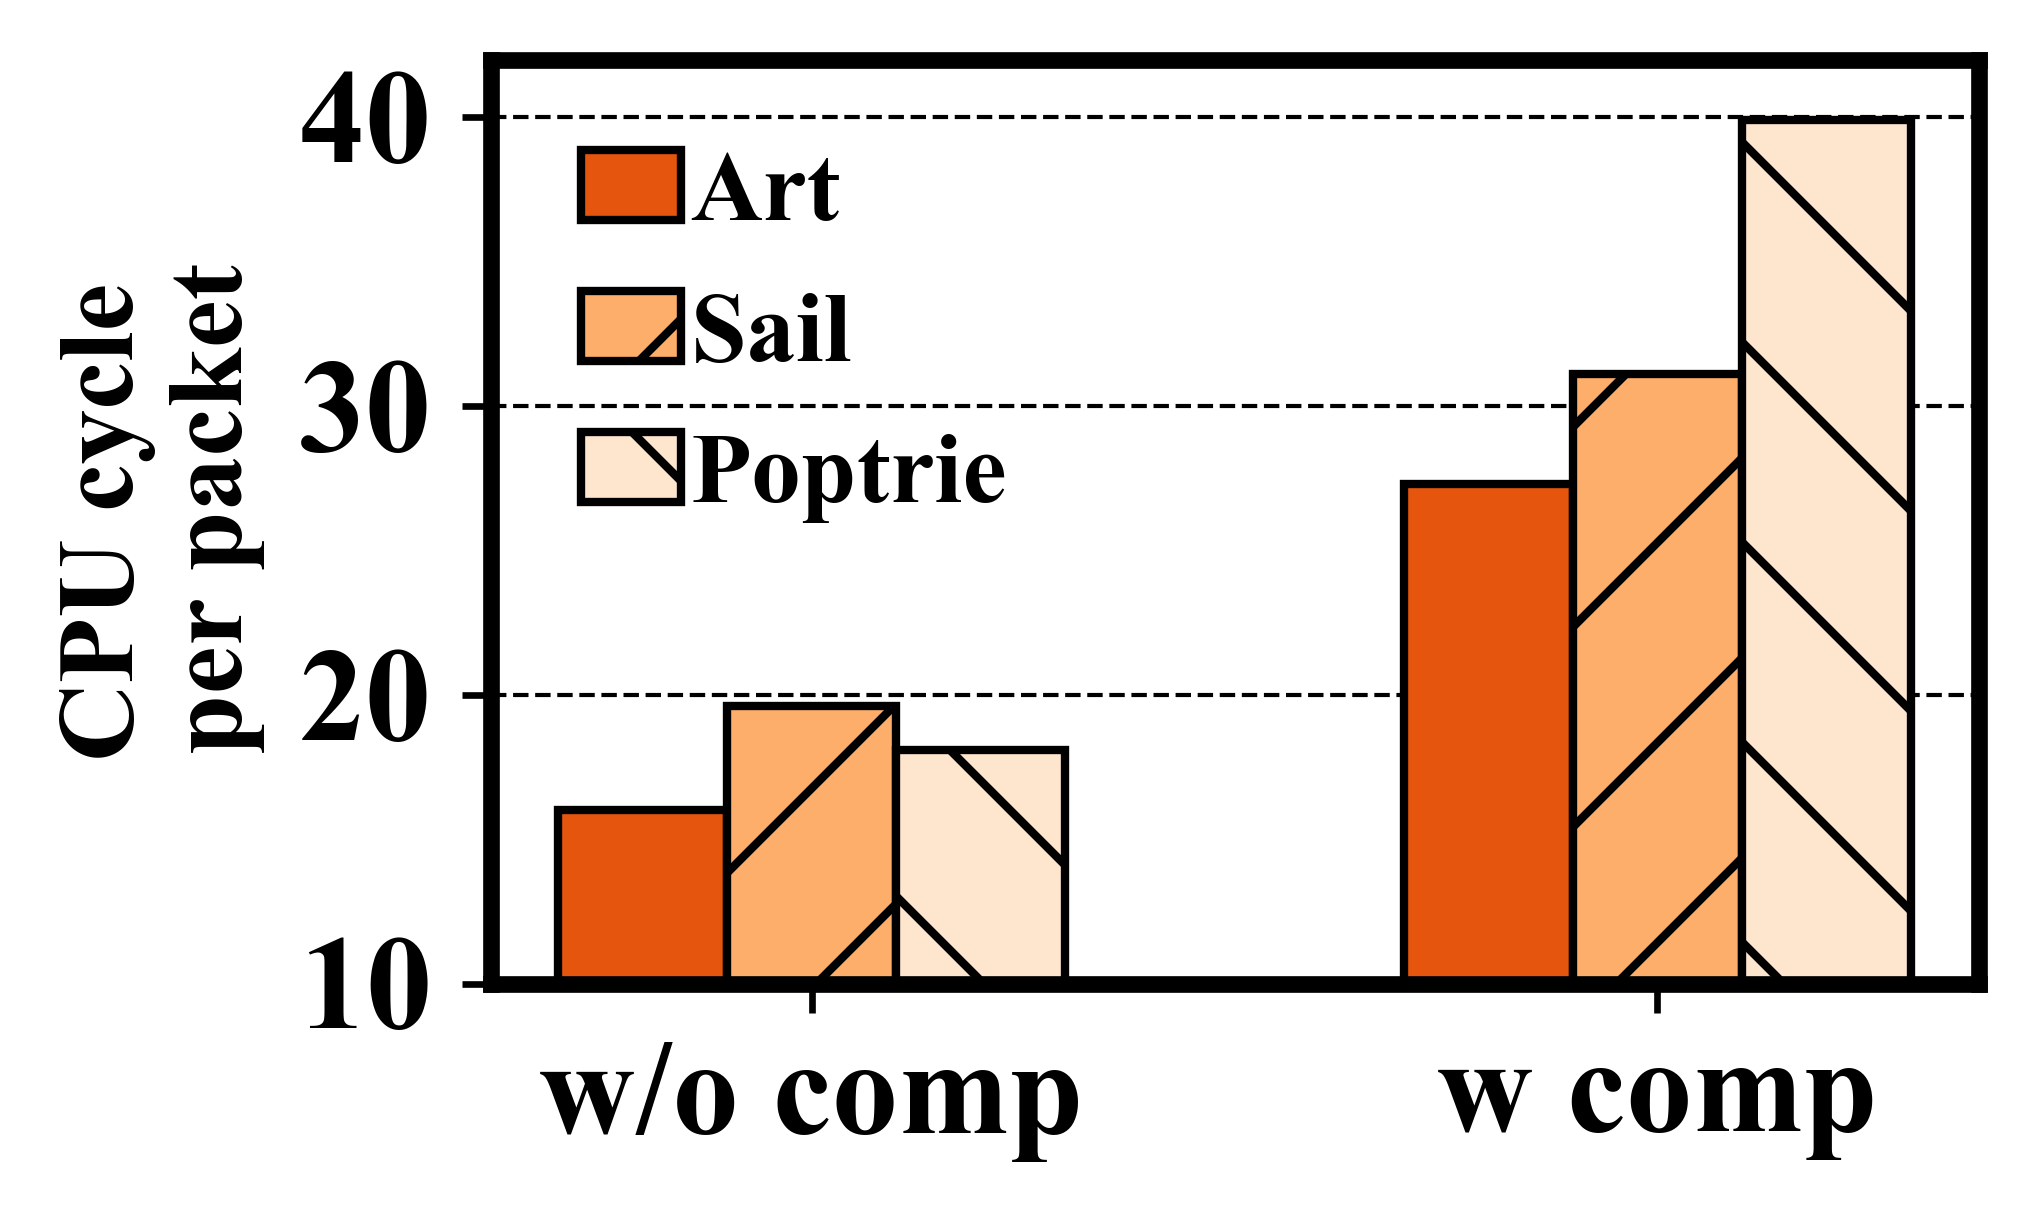
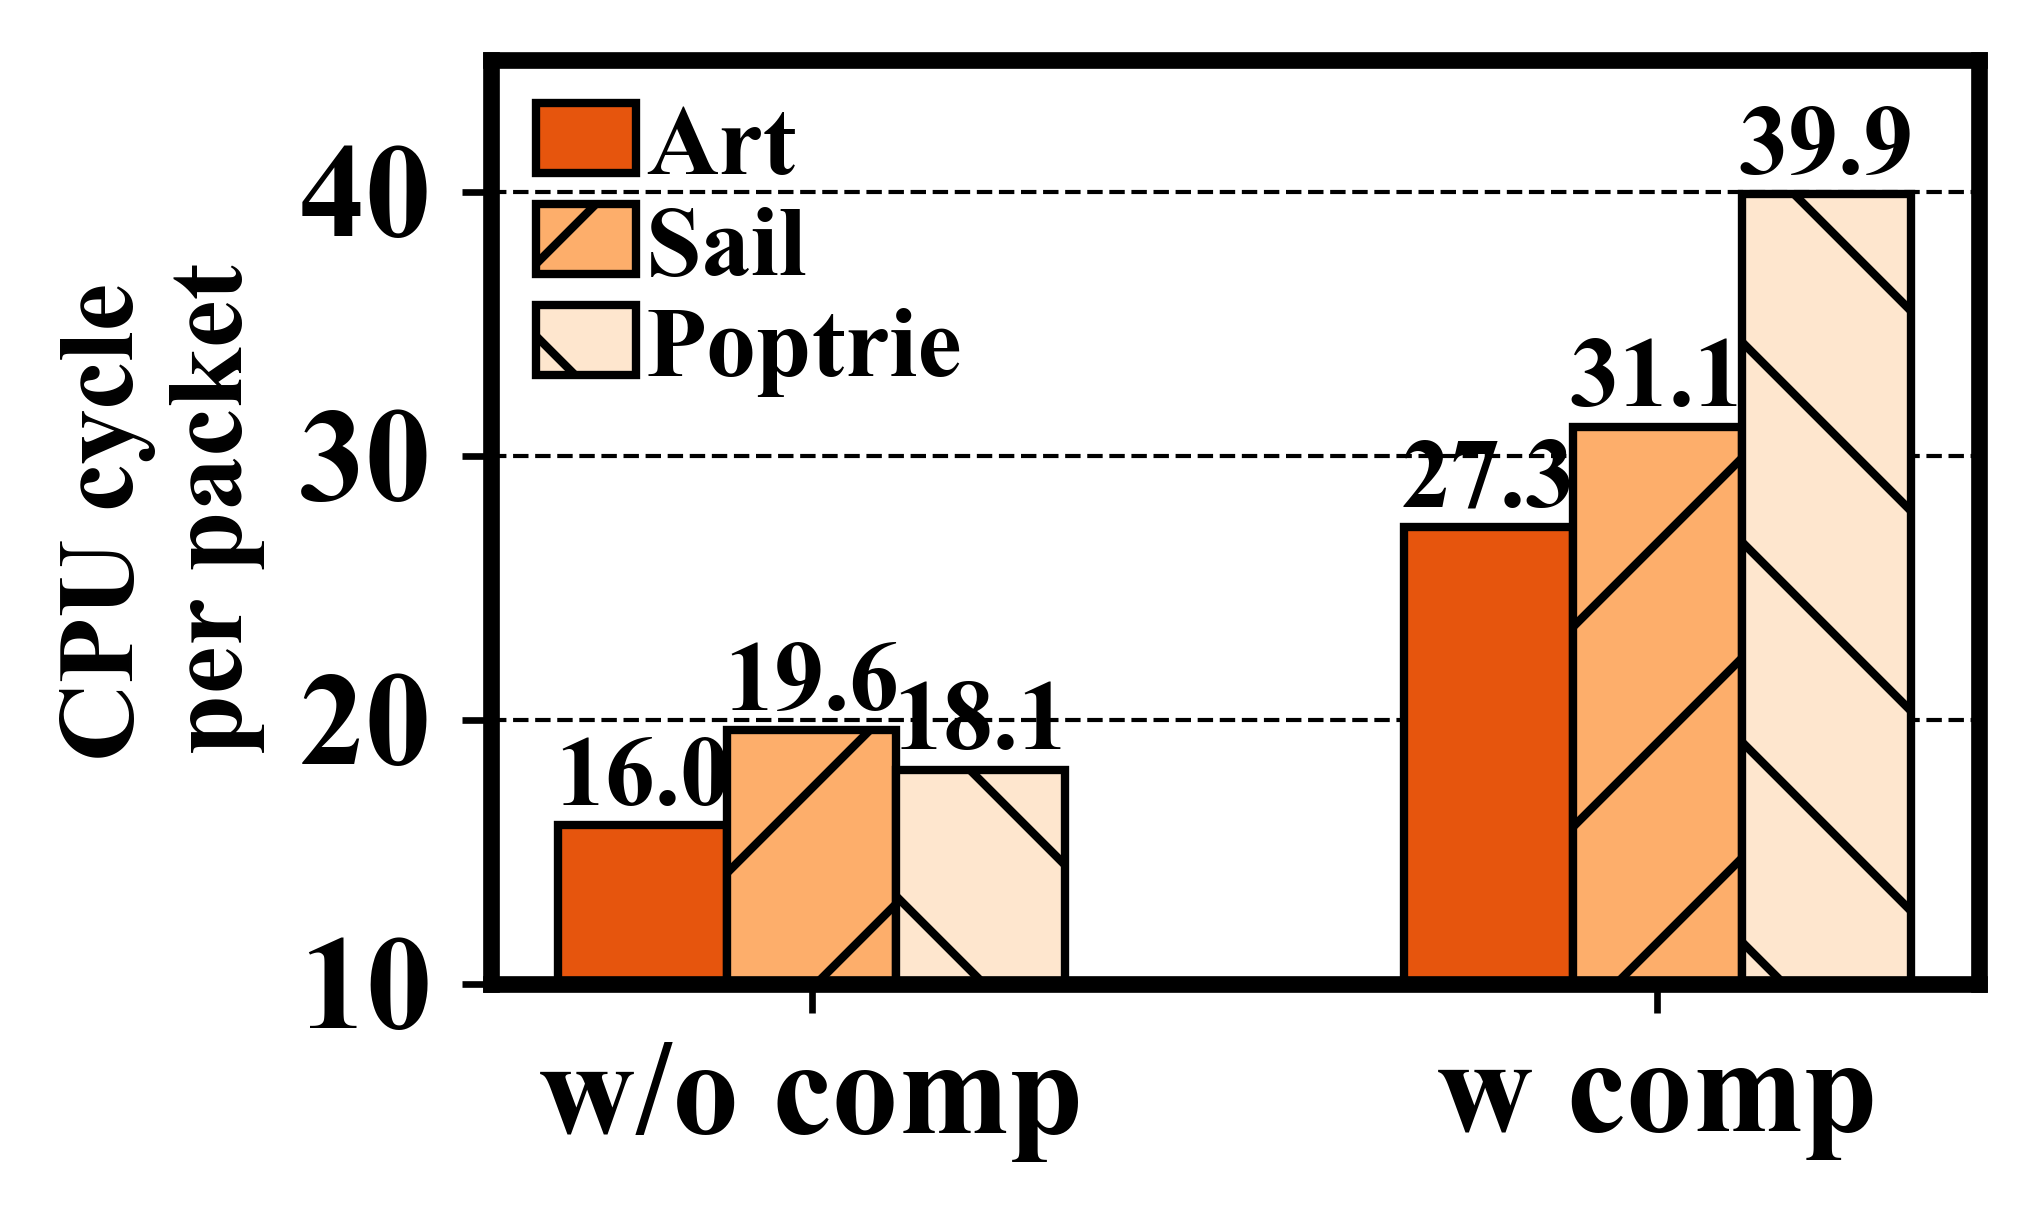
更新plot模块

diff --git a/plot.py b/plot.py
@@ -183,20 +183,39 @@ class Plot:
             label.set_fontname('Times New Roman')
 
     @staticmethod
-    def plot_set_XtickLabelVisible(visible:bool):
+    def plot_set_XtickLabelVisible(visible: bool):
+        """
+        X轴的刻度label是否可见。
+        :param visible: True，可见；False，不可见。
+        :return:
+        """
         labels = Plot.ax.get_xticklabels()
         for label in labels:
             label.set_visible(visible)
 
     @staticmethod
-    def plot_set_YtickLabelVisible(visible:bool):
+    def plot_set_YtickLabelVisible(visible: bool):
+        """
+        Y轴的刻度label是否可见。
+        :param visible: True，可见；False，不可见。
+        :return:
+        """
         labels = Plot.ax.get_yticklabels()
         for label in labels:
             label.set_visible(visible)
 
+    @staticmethod
+    def plot_show_barAboveText(rects, font_size=12):
+        for rect in rects:
+            height = rect.get_height()
+            annotate = Plot.ax.annotate(str(height), xy=((rect.get_x() + rect.get_width() / 2), height),
+                             ha='center', va='bottom')
+            annotate.set_fontsize(font_size)
+            annotate.set_fontfamily('Times New Roman')
+
 class Save:
     @staticmethod
-    def save_to_pdf(filename, dpi=600):
+    def save_to_pdf(filename, dpi=500):
         """
         保存为pdf。
         :param filename: 文件名。不需要带格式后缀，直接输入文件名即可。
@@ -206,7 +225,7 @@ class Save:
         plt.savefig(pdf_base_dir + filename + '.pdf', dpi=dpi, bbox_inches='tight')  # 保存为pdf文件
 
     @staticmethod
-    def save_to_picture(filename, dpi=600):
+    def save_to_picture(filename, dpi=500):
         """
         保存为png格式。
         :param filename: 文件名，不需要输入格式后缀。

diff --git a/example4.py b/example4.py
@@ -30,11 +30,14 @@ bar1 = Plot.plot_bar([1, 2], art_data, color='#e6550d')
 bar2 = Plot.plot_bar([1 + bar_width, 2 + bar_width], sail_data, color='#fdae6b', hatch='/')
 bar3 = Plot.plot_bar([1 + bar_width * 2, 2 + bar_width * 2], poptrie_data, color='#fee6ce', hatch='\\')
 Plot.plot_xticks([1 + bar_width, 2 + bar_width], ['w/o comp', 'w comp'])
-Plot.plot_ylim(10, 42)
-Plot.plot_yticks(np.arange(10, 42, 10))
+Plot.plot_show_barAboveText(bar1)
+Plot.plot_show_barAboveText(bar2)
+Plot.plot_show_barAboveText(bar3)
+Plot.plot_ylim(10, 45)
+Plot.plot_yticks(np.arange(10, 45, 10))
 Plot.plot_grid()
 Plot.plot_ylabel('CPU cycle\n per packet')
-Plot.plot_legend([bar1, bar2, bar3], ['Art', 'Sail', 'Poptrie'], loc='upper left', bbox_to_anchor=(0, 1), ncol=1)
+Plot.plot_legend([bar1, bar2, bar3], ['Art', 'Sail', 'Poptrie'], loc='upper left', bbox_to_anchor=(-0.03, 1.05), ncol=1,labelspacing=0.1)
 Save.save('example4')
 
 

diff --git a/paper/test.tex b/paper/test.tex
@@ -34,6 +34,6 @@
     \end{figure}
 
     \begin{figure}[htbp]
-        \includegraphics{../result/example9.pdf}
+        \includegraphics[width=\linewidth]{../result/example9.pdf}
     \end{figure}
 \end{document}
